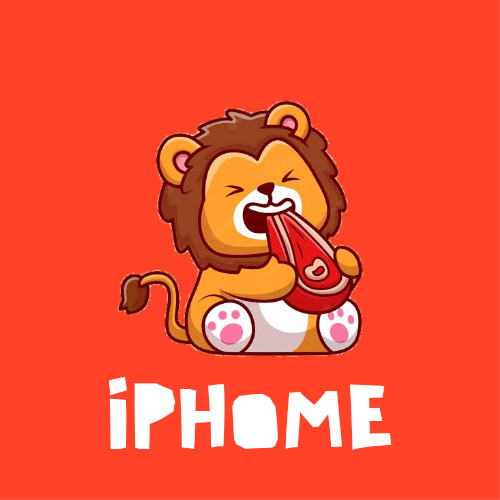
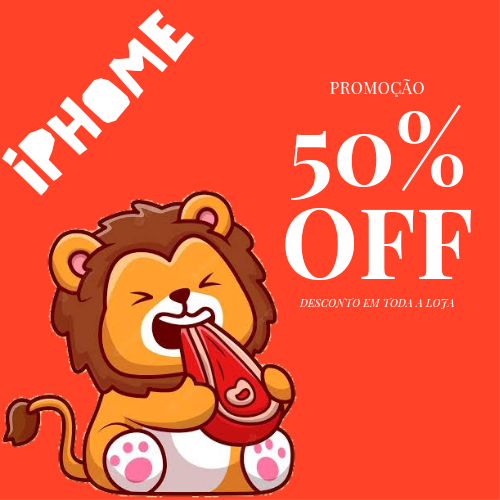
Leãozinho

diff --git a/frontend/src/App.js b/frontend/src/App.js
@@ -50,6 +50,7 @@ function App() {
     fetchCategories();
   }, []);
   const [buttonPopup, setButtonPopup] = useState(true);
+
   return (
     <BrowserRouter>
       <ToastContainer position="bottom-center" limit={1} />
@@ -147,11 +148,11 @@ function App() {
             </Routes>
           </Container>
         </main>
-        <Popup trigger={buttonPopup} setTrigger={setButtonPopup}>
-          <h3>Meu poupup</h3>
-        </Popup>
-        <footer>
+        <div>
+          <Popup trigger={buttonPopup} setTrigger={setButtonPopup}></Popup>
           <button onClick={() => setButtonPopup(true)}>Promoção</button>
+        </div>
+        <footer>
           <div className="text-center">All Rights reserved</div>
         </footer>
       </div>

diff --git a/frontend/src/index.css b/frontend/src/index.css
@@ -90,7 +90,7 @@ main {
   height: 100%;
   position: absolute;
   left: -300px;
-  background-color: #3f0201;
+  background-color: #fdbd00;
   transition: 0.5s;
 }
 
@@ -110,7 +110,7 @@ main {
   left: 0;
   width: 100%;
   height: 100%;
-  background-color: rgba(255, 0, 0, 0.5);
+  background-color: rgba(255, 255, 255, 0.8);
 
   display: flex;
   justify-content: center;
@@ -130,6 +130,14 @@ main {
 
 .popup-inner .close-btn {
   position: absolute;
-  top: 16px;
-  right: 16px;
+  bottom: 16px;
+  left: 50%;
+  border-radius: 30%;
+  background-color: black;
+  color: #ffffff;
+  box-shadow: 0 2px 4px rgba(224, 10, 10, 0.2);
+  transition: background-color 0.3s ease;
+}
+.popup-inner .close-btn:hover {
+  background-color: darkred;
 }
